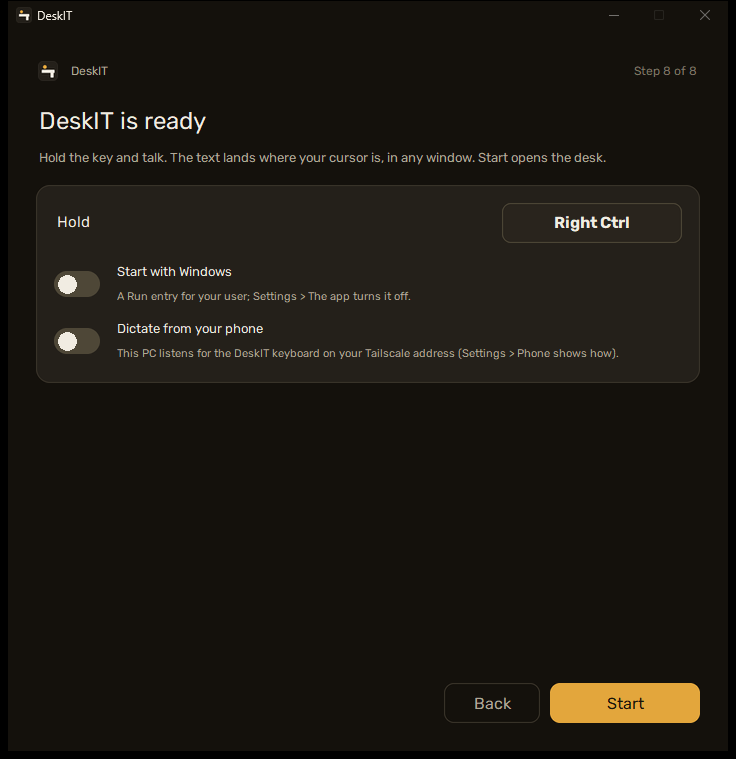
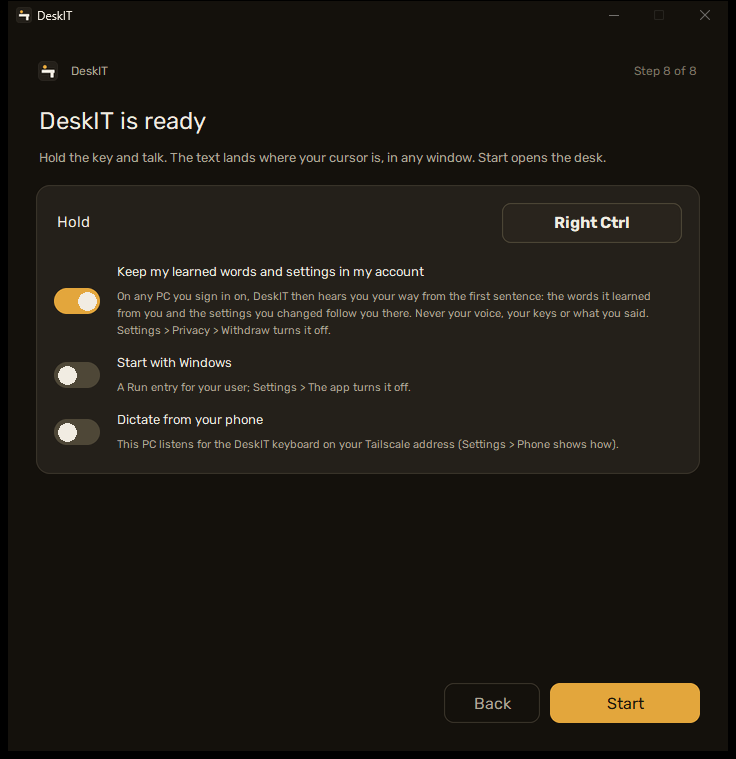
The learned words follow you by default: the wizard's last page carries a third switch, first and ON — "Keep my learned words and settings in my account" — with one line saying what leaves and that Settings > Privacy > Withdraw turns it off; Start records the settings_sync consent with the card's te

Changed region(s): [[0.0625, 0.3333, 0.875, 0.5152], [0.0625, 0.5455, 0.8438, 0.6061]]

diff --git a/firstrun.py b/firstrun.py
@@ -47,7 +47,11 @@ The pages, and the ORDER is the point:
      (D34: the defaults are what the owner runs) and written only when
      moved.
   7. Ready — the hotkey named, Start-with-Windows and the phone asked
-     once, the desk one button away
+     once, and — signed in — the words-and-settings sync, ON by
+     default (the owner, 2026-09-20: nobody found the gate in
+     Settings; the row says what leaves and how to turn it off, and
+     Start records the consent — a row nobody saw is never one); the
+     desk one button away
 
 At most four real decisions (arch-A §1 P2): the microphone (only when
 more than one input exists), the downloads, the extras, and nothing
@@ -154,8 +158,9 @@ WORDS = {
     "account.stored": ("Stored: the account id and e-mail of the Google account you pick, "
                        "this PC's name, the app version and the Windows version — on "
                        "DeskIT's server (Supabase, Frankfurt)."),
-    "account.never": ("Never stored: your voice, what you said, your keys. Every sync "
-                      "stays off until you turn it on, on its own card."),
+    "account.never": ("Never stored: your voice, what you said, your keys. The last page "
+                      "asks whether your learned words and settings stay in the account; "
+                      "what you said is synced only if you turn that on in Settings."),
     "account.none": "This copy has no account server — you can go on.",
     "account.button": "Sign in with Google",
     "account.waiting": "Waiting for Google's sign-in page in your browser…",
@@ -280,6 +285,11 @@ WORDS = {
     "done.autostart.help": "A Run entry for your user; Settings > The app turns it off.",
     "done.phone": "Dictate from your phone",
     "done.phone.help": "This PC listens for the DeskIT keyboard on your Tailscale address (Settings > Phone shows how).",
+    "done.sync": "Keep my learned words and settings in my account",
+    "done.sync.help": ("On any PC you sign in on, DeskIT then hears you your way from the first "
+                       "sentence: the words it learned from you and the settings you changed "
+                       "follow you there. Never your voice, your keys or what you said. "
+                       "Settings > Privacy > Withdraw turns it off."),
     "done.title": "DeskIT is ready",
     "done.sub": "Hold the key and talk. The text lands where your cursor is, in any window. Start opens the desk.",
     "done.deferred": ("DeskIT is installed. The Hebrew model can be downloaded from the desk "
@@ -1016,6 +1026,19 @@ class Wizard:
         except Exception:                                  # noqa: BLE001
             pass
         self._extras_shown = dict(self.extras)
+        # The last page's sync row (the owner, 2026-09-20: nobody found
+        # the gate in Settings — "make it the default, on the last screen,
+        # with a line that says what they are ticking and how to turn it
+        # off"): drawn ON, recorded on Start only (_save_sync), so a
+        # switch nobody has seen yet is never a consent. Kept apart from
+        # `extras`, which is written on the extras page's Next as well.
+        self.sync_wanted = True
+        self._sync_shown = False
+        try:
+            import privacy
+            self._sync_shown = bool(privacy.allowed("settings_sync"))
+        except Exception:                                  # noqa: BLE001
+            pass
 
         _lamplight()
         # A PhotoImage belongs to the interpreter that made it: the step
@@ -1843,6 +1866,9 @@ class Wizard:
 
     def _extra_flipped(self, key: str) -> None:
         on = self.switches[key].get()
+        if key == "sync":
+            self.sync_wanted = on          # written by Start, _save_sync
+            return
         if key == "cloud":
             # THE SWITCH IS THE CONSENT here (the owner, 2026-09-19 evening:
             # "whoever turns it on — that is enough"): the row's own two
@@ -2047,14 +2073,31 @@ class Wizard:
                  font=(ui.UI, 11), anchor="w").pack(side="left", fill="x", expand=True)
         ui.KeyCap(row, _pretty(self.cfg.hotkey), bg=ui.CARD, w=180).pack(side="right")
         self.switches = {}
-        rows = (("autostart", WORDS["done.autostart"], WORDS["done.autostart.help"]),
-                ("phone", WORDS["done.phone"], WORDS["done.phone.help"]))
+        # The sync row first, and only with an account to sync to: on a
+        # copy without a server, or one that walked past the account
+        # page (sb.REQUIRED off), there is nothing the switch could mean.
+        rows = []
+        if self._signed_in():
+            rows.append(("sync", WORDS["done.sync"], WORDS["done.sync.help"]))
+        rows += [("autostart", WORDS["done.autostart"], WORDS["done.autostart.help"]),
+                 ("phone", WORDS["done.phone"], WORDS["done.phone.help"])]
         for i, (key, label, help_) in enumerate(rows):
             self.switches[key] = self._switch_row(
-                label, help_, self.extras[key],
+                label, help_,
+                self.sync_wanted if key == "sync" else self.extras[key],
                 lambda _v=None, k=key: self._extra_flipped(k), parent=card.body,
                 bg=ui.CARD, last=i == len(rows) - 1)
         self._fit(card)
+
+    @staticmethod
+    def _signed_in() -> bool:
+        """A configured project and a session: the account page's own
+        test, asked again on the last page."""
+        try:
+            import sb
+            return bool(sb.configured() and sb.user())
+        except Exception:                                  # noqa: BLE001
+            return False
 
     def _open_desk(self) -> None:
         """[Start]: the app AND the desk. Until 2026-09-19 evening the desk
@@ -2062,6 +2105,7 @@ class Wizard:
         without it — "the model ran without the app": a dot and nothing
         to look at. One way out of the wizard, and it opens the desk."""
         self.result.open_desk = True
+        self._save_sync()
         self._save_extras()
         self._finish()
 
@@ -2450,6 +2494,29 @@ class Wizard:
                                 fg=ui.RED)
             return
         self._extras_shown = dict(want)
+
+    def _save_sync(self) -> None:
+        """The last page's sync row, on Start: THE ROW IS THE CONSENT, as
+        the cloud switch is on the extras page — the account page said
+        what is stored and where, the row's own line says what follows
+        the person and how to stop it — recorded with the card's
+        text_version so Settings > Privacy shows the grant like any
+        other; off on a later run (the gate open) withdraws it. Nothing
+        when the row was not on the page: no account, nothing to sync
+        to, and a consent nobody saw is not one. The sync itself is the
+        app's worker, 30 s after it starts (sb.start_worker)."""
+        if "sync" not in getattr(self, "switches", {}) or self.sync_wanted == self._sync_shown:
+            return
+        try:
+            import privacy
+            if self.sync_wanted:
+                import consent_card as cc
+                privacy.grant("settings_sync", cc.card_for("settings_sync")["text_version"])
+            else:
+                privacy.withdraw("settings_sync")
+            self._sync_shown = self.sync_wanted
+        except Exception as e:                             # noqa: BLE001
+            log.warning("the wizard could not record the sync consent: %s", e)
 
     def _finish(self) -> None:
         self.result.saved = (record_done() if self.path is None

diff --git a/tests.py b/tests.py
@@ -33923,6 +33923,117 @@ def test_the_wizard_hosts_the_downloads_and_keeps_them_running_between_pages():
             shutil.rmtree(d, ignore_errors=True)
 
 
+def test_the_last_page_keeps_words_and_settings_in_the_account_by_default():
+    """The wizard's last page (the owner, 2026-09-20 — two PCs on one
+    Google account shared not one learned word, the gate being off in
+    both behind a card nobody found: "make it the default, on the last
+    screen, with a line that says what they are ticking and how to turn
+    it off"): signed in, a third switch — Keep my learned words and
+    settings in my account — drawn ON above the two, its help line
+    naming what follows and the way off; Start records the
+    settings_sync consent with the card's own text_version, and nothing
+    before Start does (the extras page's Next writes only its own
+    switches); off, Start writes no row; on a later run with the gate
+    open, off withdraws it. Not signed in, the row is not on the page
+    and Start records nothing — a consent nobody saw is not one."""
+    import consent_card as cc
+    import firstrun
+    import privacy
+    import sb
+
+    cfg = dataclasses.replace(config_mod.load(REPO / "defaults.toml"),
+                              setup=config_mod.SetupConfig(done=False))
+    d, s, t = _layer_files()
+    offers = {"portable": True, "model": None, "pack": None, "detector": None, "tier": "gpu"}
+    person = {"email": "person@example.com", "id": "x", "is_anonymous": False}
+    who = {"user": person}
+
+    def wizard():
+        try:
+            return firstrun.Wizard(cfg, facts={"tier": "gpu"}, offers=offers)
+        except Exception as err:                             # noqa: BLE001
+            print(f"    (skipped: no Tk window — {err})")
+            return None
+
+    def bury(w):
+        try:
+            w._close()
+        except Exception:                                    # noqa: BLE001
+            pass
+        gc.collect()
+
+    with _patched(paths, "SETTINGS_FILE", s), _patched(paths, "STATE_FILE", t), \
+            _patched(sb, "user", lambda: who["user"]), _patched(sb, "configured", lambda: True):
+        assert str(_SCRATCH_HOME) in str(paths.CONSENT_FILE), paths.CONSENT_FILE
+        privacy.withdraw("settings_sync")
+        card = cc.card_for("settings_sync")
+        try:
+            # 1. drawn on, off by hand, Start writes nothing
+            w = wizard()
+            if w is None:
+                return
+            assert w.sync_wanted is True and w._sync_shown is False
+            w.page = firstrun.PAGES.index("extras")
+            w._show_page()
+            w._next()                                        # the extras page's own writer
+            assert w.name == "done"
+            assert privacy.consent("settings_sync") is None, "granted before the row was seen"
+            assert list(w.switches) == ["sync", "autostart", "phone"], list(w.switches)
+            assert w.switches["sync"].get() is True, "the default is on"
+            words = _wizard_words(w)
+            assert firstrun.WORDS["done.sync"] in words
+            assert "Settings > Privacy > Withdraw" in words, "no way off named on the row"
+            assert "Never your voice" in words, "the row does not say what stays"
+            w.switches["sync"].toggle()
+            assert w.sync_wanted is False
+            w._open_desk()
+            assert w.result.saved and config_mod.read_state(t).get("setup.done") is True
+            assert privacy.consent("settings_sync") is None, "off on Start wrote a row"
+            bury(w)
+
+            # 2. left on, Start records it with the card's version
+            w = wizard()
+            w.page = firstrun.PAGES.index("done")
+            w._show_page()
+            assert w.switches["sync"].get() is True
+            w._open_desk()
+            row = privacy.consent("settings_sync")
+            assert row is not None and row["text_version"] == card["text_version"], row
+            assert privacy.allowed("settings_sync")
+            bury(w)
+
+            # 3. a later run, the gate open: drawn on and quiet; off withdraws
+            w = wizard()
+            assert w._sync_shown is True and w.sync_wanted is True
+            w.page = firstrun.PAGES.index("done")
+            w._show_page()
+            w._open_desk()
+            assert privacy.consent("settings_sync") is row or privacy.consent("settings_sync") == row
+            bury(w)
+            w = wizard()
+            w.page = firstrun.PAGES.index("done")
+            w._show_page()
+            w.switches["sync"].toggle()
+            w._open_desk()
+            assert privacy.consent("settings_sync") is None, "off did not withdraw"
+            assert not privacy.allowed("settings_sync")
+            bury(w)
+
+            # 4. not signed in: no row, and Start records nothing
+            who["user"] = None
+            w = wizard()
+            w.page = firstrun.PAGES.index("done")
+            w._show_page()
+            assert list(w.switches) == ["autostart", "phone"], list(w.switches)
+            assert w.sync_wanted is True                    # the default, unseen
+            w._open_desk()
+            assert privacy.consent("settings_sync") is None, "a consent nobody saw was written"
+            bury(w)
+        finally:
+            privacy.withdraw("settings_sync")
+            shutil.rmtree(d, ignore_errors=True)
+
+
 def test_the_cloud_switch_is_the_consent_and_next_waits_for_a_working_key():
     """The cloud switch on the extras page (the owner, 2026-09-19 evening:
     "whoever turns it on — that is enough; a key must be checked; on with

diff --git a/settings.py b/settings.py
@@ -555,8 +555,10 @@ TABS: tuple[Tab, ...] = (
             Friendly("privacy.settings_sync", "Syncing settings and words",
                      "Your changed settings and learned words follow you "
                      "to every PC you sign into; never keys, hotkeys, "
-                     "devices, folders or positions. Opens only through "
-                     "its card."),
+                     "devices, folders or positions. Asked on the wizard's "
+                     "last page, on unless you turned it off there; "
+                     "Withdraw turns it off, Sync now under Account asks "
+                     "again."),
             Friendly("privacy.history_sync", "Syncing what you said",
                      "The Said page is the same on every PC you sign "
                      "into. Stored in your account on the developer's "

diff --git a/dev/shot_wizard.py b/dev/shot_wizard.py
@@ -131,6 +131,9 @@ def _pages(out: Path) -> list[Path]:
         w._rebind("punctuate_hotkey"); shot("06-keys-listening")
         w._captured(None)
         show("extras"); shot("07-extras")
+        # signed in by now, as a person is: the last page carries the
+        # sync row (on by default) above the two switches
+        sb.user = lambda: {"email": "person@example.com", "id": "x", "is_anonymous": False}
         show("done"); shot("08-ready")
     finally:
         sb.user = real_user

diff --git a/AGENTS.md b/AGENTS.md
@@ -1271,7 +1271,7 @@ ightly\` — an OS-held byte lock so two runs cannot overlap and a dead one wedg
 | `steps.py` | a download that asks first (models.py, packs.py), in three pieces: `StepRun` is the WORK — the thread, the cancel event, the queue and the state a face is drawn from (bytes, stage, rate, the end word: done / paused / offline / failed) — owned by whoever hosts it; `StepPane` is the FACE on a ui.py frame (Hebrew paragraph through the bitmap path, the size line before any byte, licence links, the bar with bytes/percent/rate, [Download\|Install] / [Not now] → [Pause], `attach()` for the next run of a queue, `compact` for a page where the bar is not the subject); `StepWindow` is a Tk root around one pane — the standalone step the start shows when the wizard is NOT due and what `--download-model` / `--install-pack` open from the dashboard; `steps.show(step)` never raises |
 | `pcm.py` | WAV bytes → the 16 kHz mono float32 array faster-whisper takes, with the standard library's `wave` and numpy (channels averaged, other rates resampled) — the ONLY decoder on the dictation path since 13.4: `WhisperModel.transcribe` is handed samples, never a BytesIO (that road is faster-whisper's `decode_audio`, which is PyAV). A body that is not WAV goes to PyAV when a real one is there and is `NotWav` with the Recording pack's sentence when it is not |
 | `vendor/av/` | the stand-in for PyAV on an installed copy: `paths.py` puts `vendor/` LAST on sys.path, so a real `av` anywhere wins; faster-whisper's `import av` succeeds; any attribute is one ImportError naming the Recording pack — unless a real `av` has since appeared on sys.path (the pack's site, appended by `packs.activate`), in which case the stub loads it in its own place and hands over, no restart. Ships (not export-ignored) |
-| `firstrun.py` | the first-run wizard, eight pages in one 720x720 window (chapter 9.2, `docs/distplan/research-onboarding.md`): Welcome (three privacy sentences, the guide's "check it yourself" link) → Microphone (the live meter, Windows' privacy switch read from the registry before the meter is even drawn, the trap named with the fix one click away) → This computer (the probe's line; the Hebrew model as a `StepPane`, the GPU pack, the English detector and — since 2026-09-19 evening, on by default — the Recording pack as switches that queue behind it — one [Download], one bar, "1 of 3 · Hebrew model"; the queue keeps running while the wizard moves on and is drawn again on the next page) → Say one sentence (the record button waits for the model; the measured seconds into `hardware.last_test_seconds`) → Keys → Optional extras (D33's five: cloud repair — THE SWITCH IS THE CONSENT here (the owner, 2026-09-19 evening: "whoever turns it on, that is enough"; privacy.grant with the card's text_version), and on it opens a rounded `ui.Field` for the Groq key under the row, checked with one `key-test` request the moment it is saved (`key_probe`); a refused key leaves the store, and Next waits while the switch is on without a working key (`_extras_gate`) — keep-awake, weekly update check, Connect Claude Code, the Snipping-Tool key; drawn as they stand, written only when moved) → Ready (the hotkey, Start with Windows and the phone asked once; [Start] starts the app AND opens the desk — the separate [Open the desk] went on 2026-09-19 evening, after the owner pressed Start without it and met a dot with nothing to look at). `setup.done` into state.json (`record_done`; the marker file only for `--config` runs); `run()` returns a `Result` (truthy when saved; `open_desk`, `installed_pack` for main). Imports nothing from main.py. Chrome English, every paragraph Hebrew through `ui.draw_text`; the string table is `WORDS` |
+| `firstrun.py` | the first-run wizard, eight pages in one 720x720 window (chapter 9.2, `docs/distplan/research-onboarding.md`): Welcome (three privacy sentences, the guide's "check it yourself" link) → Microphone (the live meter, Windows' privacy switch read from the registry before the meter is even drawn, the trap named with the fix one click away) → This computer (the probe's line; the Hebrew model as a `StepPane`, the GPU pack, the English detector and — since 2026-09-19 evening, on by default — the Recording pack as switches that queue behind it — one [Download], one bar, "1 of 3 · Hebrew model"; the queue keeps running while the wizard moves on and is drawn again on the next page) → Say one sentence (the record button waits for the model; the measured seconds into `hardware.last_test_seconds`) → Keys → Optional extras (D33's five: cloud repair — THE SWITCH IS THE CONSENT here (the owner, 2026-09-19 evening: "whoever turns it on, that is enough"; privacy.grant with the card's text_version), and on it opens a rounded `ui.Field` for the Groq key under the row, checked with one `key-test` request the moment it is saved (`key_probe`); a refused key leaves the store, and Next waits while the switch is on without a working key (`_extras_gate`) — keep-awake, weekly update check, Connect Claude Code, the Snipping-Tool key; drawn as they stand, written only when moved) → Ready (the hotkey, Start with Windows and the phone asked once, and — signed in — **Keep my learned words and settings in my account**, ON by default since 2026-09-20 (the owner: nobody found the gate in Settings — "make it the default, on the last screen, with a line that says what they are ticking and how to turn it off"); the row's help line says what follows the person and that Settings > Privacy > Withdraw stops it; `_save_sync` records `privacy.grant("settings_sync")` with the card's text_version on [Start] ONLY — never on the extras page's Next, never when the row was not on the page (no account: a consent nobody saw is not one), and off on a later run with the gate open withdraws it; the app's worker then syncs 30 s after start; [Start] starts the app AND opens the desk — the separate [Open the desk] went on 2026-09-19 evening, after the owner pressed Start without it and met a dot with nothing to look at). `setup.done` into state.json (`record_done`; the marker file only for `--config` runs); `run()` returns a `Result` (truthy when saved; `open_desk`, `installed_pack` for main). Imports nothing from main.py. Chrome English, every paragraph Hebrew through `ui.draw_text`; the string table is `WORDS` |
 | `tour_card.py` + `overlay.TourCard` | the guide itself (D36): four callouts beside the status dot on the first start after the wizard — the dot and its colours, the hold key drawn as a keycap, what a click on the dot opens, done — one Hebrew sentence each, [הבא] / [דלג] / [סיימתי]. Split like consent_card.py: the words (`STOPS`), the geometry and the picture in `tour_card.py` (pure Pillow; `frame` adds the beak's room on the side that faces the dot, `clamp_tail` keeps it off the corners, `flat` paints card + beak on the chroma colour the window keys out); the thread, the queue and `place` (beside_dot, then which edge faces the dot) in `overlay.TourCard`. Once per copy: `setup.tour` in state.json, written by `main.App._tour_ended` on [סיימתי] AND on [דלג] (a skipped tour never comes back by itself); `App.tour_due()` decides at start; the control command `tour` and Settings > The app > Show the tour put it up again. The docs site is the reference, not the guide |
 | `LICENSE`, `NOTICE`, `TRADEMARK.md`, `SECURITY.md`, `NETWORK.md` | the papers beside the code, shipped (chapter 13, 14.7, D23-D26): Apache-2.0 verbatim + the NOTICE with the owner's line; the name and the icon reserved (13.2); how to report a security issue, 90 days, latest release only; every host `net.py` allows with its purpose words — `test_network_md_matches_net_py` holds the page to the code. `docs/privacy.md` + `docs/terms.md` are the Pages drafts (English canonical, Hebrew and the contact address are the owner's); `dev/legal/` the six private papers of 13.8; `dev/notices-extra.txt` the hand-written half of `THIRD-PARTY-NOTICES.txt`, which the release build writes from pip-licenses over the staged site-packages + that file + python/LICENSE.txt + Tcl's license.terms, before the manifest; `.github/ISSUE_TEMPLATE/` the two forms and the Discussions pointer |
 | About, `--diagnose` | `dashboard._about_card` on The app: the licence line, the model line (Built with Llama while a default names one — `Dashboard.built_with_llama`), a button per paper (files beside the app; privacy/terms local in a checkout, Pages otherwise), Report on GitHub, Copy diagnostics; `problems.diagnose()` = env() + backend/model/pack standing + channel + port + the last 50 lines of app.log through the redactor, never transcripts.log; `main.py --diagnose` prints it and puts it on the clipboard |

diff --git a/CHANGELOG.md b/CHANGELOG.md
@@ -6,6 +6,12 @@ attestation, the previous version) — do not write those here. Hebrew
 paragraph first (the owner's), English second (DISTRIBUTION_PLAN.md
 11.11 step 2).
 
+## 1.0.1
+
+המילים שלמדת הולכות איתך: בעמוד האחרון של האשף יש עכשיו מתג שלישי, דלוק מראש — "Keep my learned words and settings in my account" — עם שורה שאומרת מה יוצא (המילים שדסק-איט למד ממך וההגדרות ששינית, אף פעם לא הקול, המפתחות או מה שאמרת) ואיך מכבים (Settings > Privacy > Withdraw). עד עכשיו הסנכרון היה כבוי בכל עותק, מאחורי כרטיס שאיש לא מצא — שני מחשבים עם אותו חשבון גוגל לא חלקו אף מילה. Start הוא מה שרושם את ההסכמה; מתג שלא ראית אינו הסכמה.
+
+Your learned words follow you: the wizard's last page has a third switch, on by default — "Keep my learned words and settings in my account" — with a line saying what leaves (the words DeskIT learned from you and the settings you changed; never your voice, your keys or what you said) and how to turn it off (Settings > Privacy > Withdraw). Until now the sync was off in every copy, behind a card nobody found — two PCs on the same Google account shared not one word. Start is what records the consent; a switch you never saw is not one.
+
 ## 1.0.0
 
 הגרסה הראשונה של DeskIT — הכתבה בעברית שנשארת במחשב שלך. מתקינים בשתי לחיצות, בלי סיסמת מנהל; המתקין מוריד בעצמו את מודל הדיבור העברי (ועם כרטיס NVIDIA גם את מה שעושה את התמלול מהיר), כך שבהפעלה הראשונה אשף קצר רק מגדיר מיקרופון ומקש. מחזיקים מקש, מדברים, הטקסט נכנס איפה שהסמן. הקול לא יוצא מהמחשב; מה שאמרת נשמר בתיקייה אחת שאפשר למחוק; שום דבר לא נשלח לשום מקום עד שמפעילים זאת בעצמכם, וכל חיבור יוצא רשום במסך אחד. מסך מקשים מצויר, לימוד מילים שתיקנת, הקלטת מסך וצילום, תרגום, חיפוש מילה, וטלפון שמכתיב דרך המחשב שלך.

diff --git a/docs/he/02-first-run.md b/docs/he/02-first-run.md
@@ -104,6 +104,16 @@ title: 2. הפעלה ראשונה
 
 ![מוכן](../img/02-done.png)
 
-המקש שמחזיקים, ועוד שני מתגים שנשאלים פעם אחת: **Start with Windows** (רשומת הפעלה
-למשתמש שלך) ו־**Dictate from your phone** ([פרק 6](06-phone)). **Start** מפעיל את דסק-איט
-ופותח את הדסק. אם דילגת על המודל, הדף אומר זאת ול־Home יש את כפתור ההורדה.
+המקש שמחזיקים, ושלושה מתגים שנשאלים פעם אחת:
+
+- **Keep my learned words and settings in my account** — דלוק. המילים שדסק-איט למד ממך
+  וההגדרות ששינית הולכות איתך לכל מחשב שתיכנס אליו עם החשבון, כך שהוא שומע אותך בדרך
+  שלך כבר מהמשפט הראשון. אף פעם לא הקול, המפתחות או מה שאמרת (לעמוד Said יש מתג
+  משלו, כבוי, תחת Settings > Privacy). לכבות אחר כך: Settings > Privacy > **Withdraw**
+  בשורה *Syncing settings and words*; **Sync now** תחת Account שואל שוב. השורה מופיעה רק
+  אם נכנסת לחשבון בעמוד החשבון.
+- **Start with Windows** — כבוי. רשומת הפעלה למשתמש שלך.
+- **Dictate from your phone** — כבוי ([פרק 6](06-phone)).
+
+**Start** מפעיל את דסק-איט ופותח את הדסק. אם דילגת על המודל, הדף אומר זאת ול־Home יש את
+כפתור ההורדה.

diff --git a/docs/en/settings.md b/docs/en/settings.md
@@ -92,7 +92,7 @@ beside the app keeps the defaults and the help for every key.
 | `privacy.cloud_screenshots` — Screen pictures to the cloud | The part of the screen you asked about may go to Groq or Google. Opens only through its card. | off | on / off |
 | `privacy.account` — An account | Anonymous, or your Google sign-in: for problem reports you choose to send and for the two syncs. Opens only through its card. | off | on / off |
 | `privacy.report_upload` — Sending problem reports | Only what the preview showed. Opens only through its card. | off | on / off |
-| `privacy.settings_sync` — Syncing settings and words | Your changed settings and learned words follow you to every PC you sign into; never keys, hotkeys, devices, folders or positions. Opens only through its card. | off | on / off |
+| `privacy.settings_sync` — Syncing settings and words | Your changed settings and learned words follow you to every PC you sign into; never keys, hotkeys, devices, folders or positions. Asked on the wizard's last page, on unless you turned it off there; Withdraw turns it off, Sync now under Account asks again. | off | on / off |
 | `privacy.history_sync` — Syncing what you said | The Said page is the same on every PC you sign into. Stored in your account on the developer's server, where he could technically read it. Opens only through its card. | off | on / off |
 
 ### Switches

diff --git a/docs/he/settings.md b/docs/he/settings.md
@@ -92,7 +92,7 @@ title: הגדרות
 | `privacy.cloud_screenshots` — Screen pictures to the cloud | The part of the screen you asked about may go to Groq or Google. Opens only through its card. | off | on / off |
 | `privacy.account` — An account | Anonymous, or your Google sign-in: for problem reports you choose to send and for the two syncs. Opens only through its card. | off | on / off |
 | `privacy.report_upload` — Sending problem reports | Only what the preview showed. Opens only through its card. | off | on / off |
-| `privacy.settings_sync` — Syncing settings and words | Your changed settings and learned words follow you to every PC you sign into; never keys, hotkeys, devices, folders or positions. Opens only through its card. | off | on / off |
+| `privacy.settings_sync` — Syncing settings and words | Your changed settings and learned words follow you to every PC you sign into; never keys, hotkeys, devices, folders or positions. Asked on the wizard's last page, on unless you turned it off there; Withdraw turns it off, Sync now under Account asks again. | off | on / off |
 | `privacy.history_sync` — Syncing what you said | The Said page is the same on every PC you sign into. Stored in your account on the developer's server, where he could technically read it. Opens only through its card. | off | on / off |
 
 ### Switches

diff --git a/docs/en/02-first-run.md b/docs/en/02-first-run.md
@@ -108,7 +108,16 @@ stand and written only if you move them:
 
 ![Ready](../img/02-done.png)
 
-The hotkey to hold, and two more switches asked once: **Start with Windows** (a Run entry for
-your user) and **Dictate from your phone** ([chapter 6](06-phone)). **Start** starts DeskIT
-and opens the desk. If you skipped the model, this page says so and Home has the download
-button.
+The hotkey to hold, and three switches asked once:
+
+- **Keep my learned words and settings in my account** — on. The words DeskIT learned from
+  you and the settings you changed follow you to any PC you sign in on, so it hears you
+  your way from the first sentence. Never your voice, your keys or what you said (the Said
+  page has its own switch, off, under Settings > Privacy). To turn it off later:
+  Settings > Privacy > **Withdraw** on *Syncing settings and words*; **Sync now** under
+  Account asks again. The row appears only when you signed in on the account page.
+- **Start with Windows** — off. A Run entry for your user.
+- **Dictate from your phone** — off ([chapter 6](06-phone)).
+
+**Start** starts DeskIT and opens the desk. If you skipped the model, this page says so and
+Home has the download button.

diff --git a/docs/privacy.md b/docs/privacy.md
@@ -82,8 +82,12 @@ you typed), the app version, the Windows build, the hardware tier;
 timestamps; and the IP address as the processor sees it, in its logs
 only (kept one day).
 
-**Two syncs, each behind its own consent card, both off until you turn
-them on.** "Settings and words": your changed settings — minus every
+**Two syncs, each a consent you give yourself.** "Settings and words"
+is asked once, on the wizard's last page, as a switch drawn on: leave
+it on and Start records the consent, turn it off and nothing is synced;
+Settings > Privacy > Withdraw turns it off at any later time. "What you
+said" is off until you turn it on, on its own card. "Settings and
+words": your changed settings — minus every
 key, hotkey, device, folder, port and position, which never leave the
 PC — and the words the app learned from your corrections. "What you
 said": the text of what you dictated, translated, punctuated and looked
